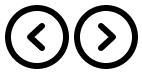
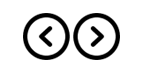
update slider button size

diff --git a/_sass/front/front.sass b/_sass/front/front.sass
@@ -76,12 +76,14 @@ a:focus
         color: red
     .lSAction
       a
-        top: 35%
-        width: 70px
-        height: 70px
+        top: 40%
+        width: 50px
+        height: 50px
         z-index: 0
+        &.lSPrev
+          background-position: -20px -12px
         &.lSNext
-          background-position: -69px 0
+          background-position: -72px -12px
     .lSPager
       display: none
 
